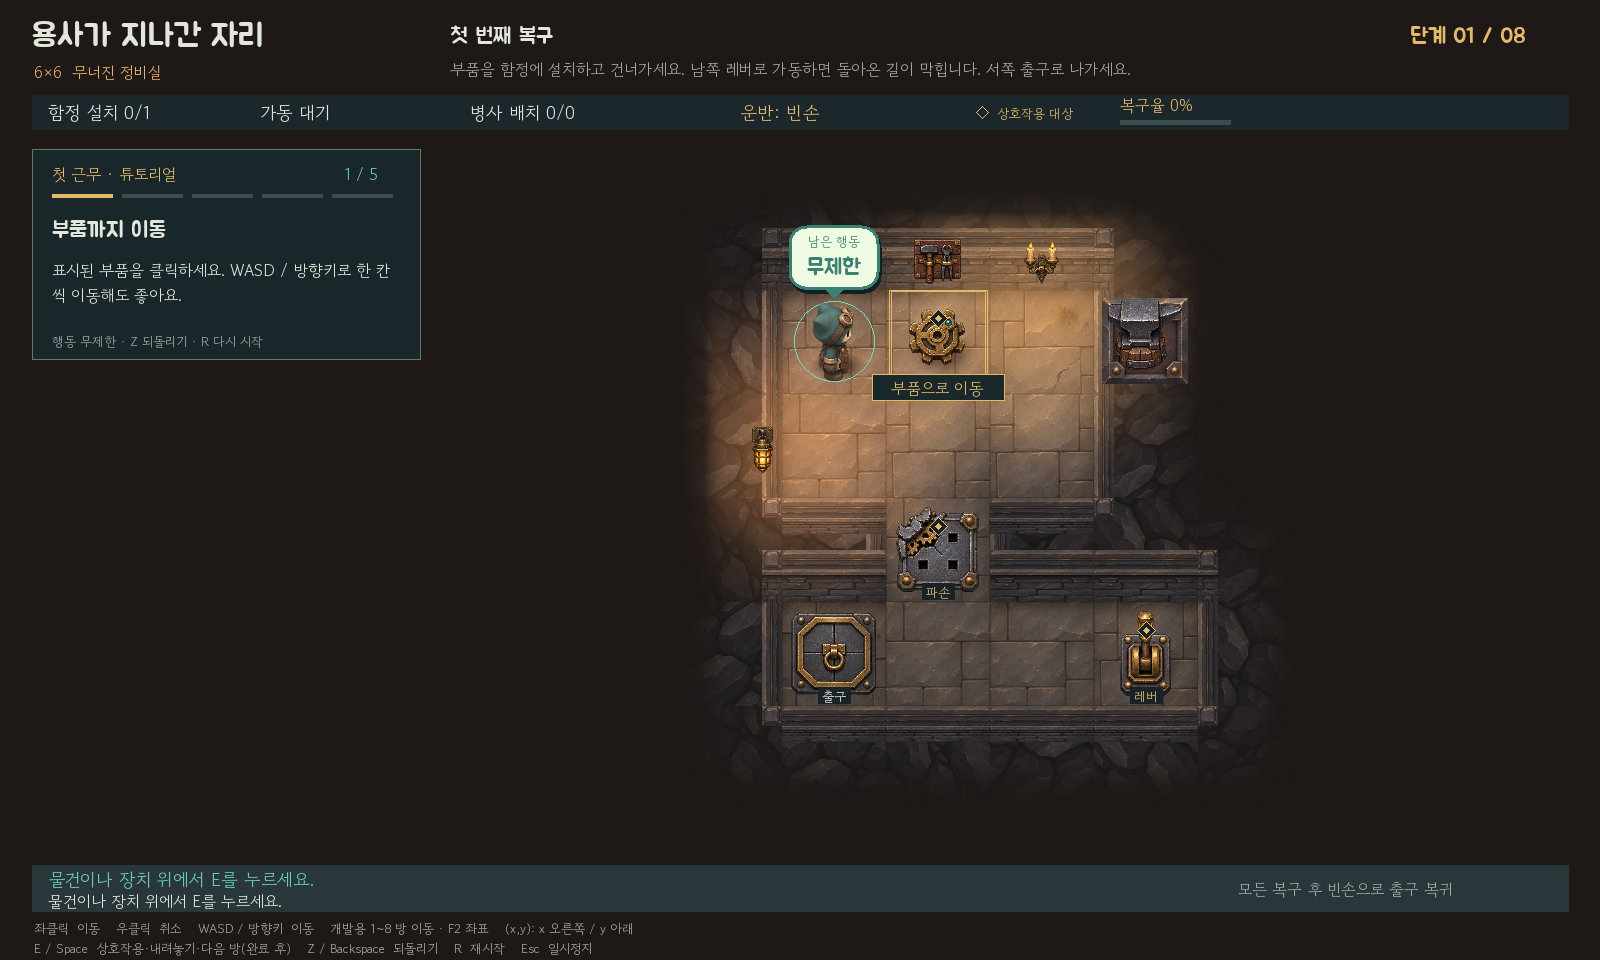
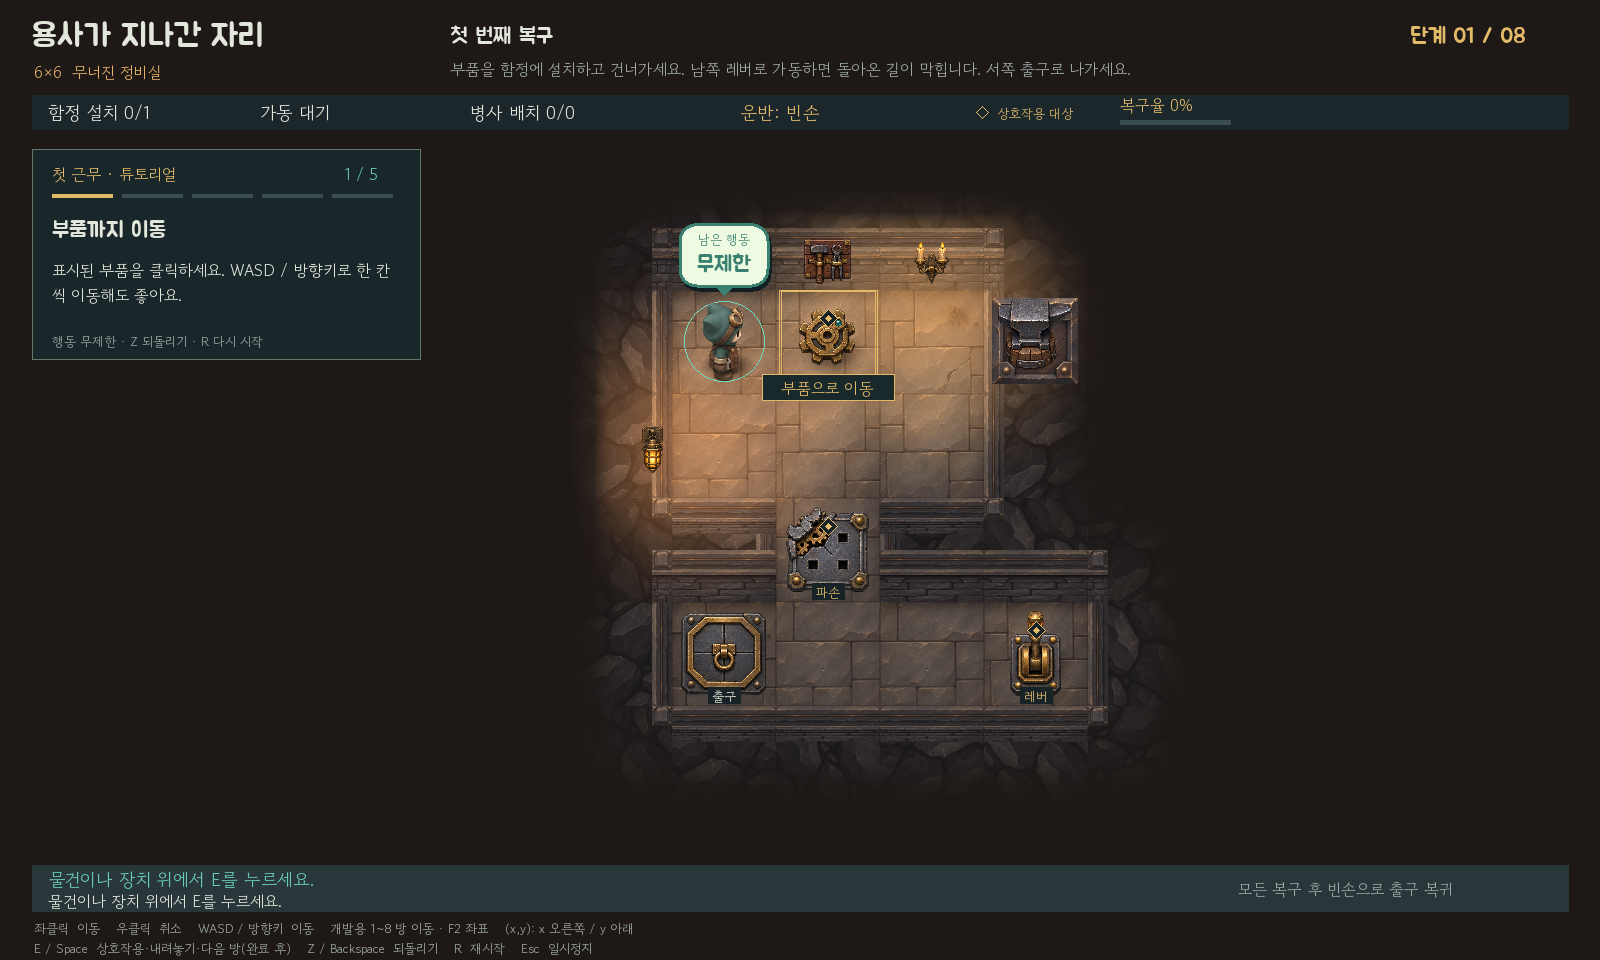
fix: 첫 방의 가로 중심을 화면 중앙 쪽으로 이동
왼쪽 튜토리얼 패널과 간격을 두면서 맵 중심을 110px 왼쪽으로 옮긴다. 입문방 시작과 함정 가동 화면을 갱신한다.

Changed region(s): [[0.375, 0.2188, 0.7812, 0.7812]]

diff --git a/game/navigation.py b/game/navigation.py
@@ -80,7 +80,8 @@ class TopDownBoard:
     @property
     def origin(self) -> tuple[float, float]:
         size = self.cell_size
-        center_x = WIDTH / 2 + (190 if self.tutorial else 0)
+        # 입문방은 왼쪽 안내판과 간격을 두면서 화면 중앙에 가깝게 배치한다.
+        center_x = WIDTH / 2 + (80 if self.tutorial else 0)
         return (center_x - (self.width - 1) * size / 2,
                 (BOARD_BOTTOM + BOARD_TOP) / 2 + (self.height - 1) * size / 2)
 
